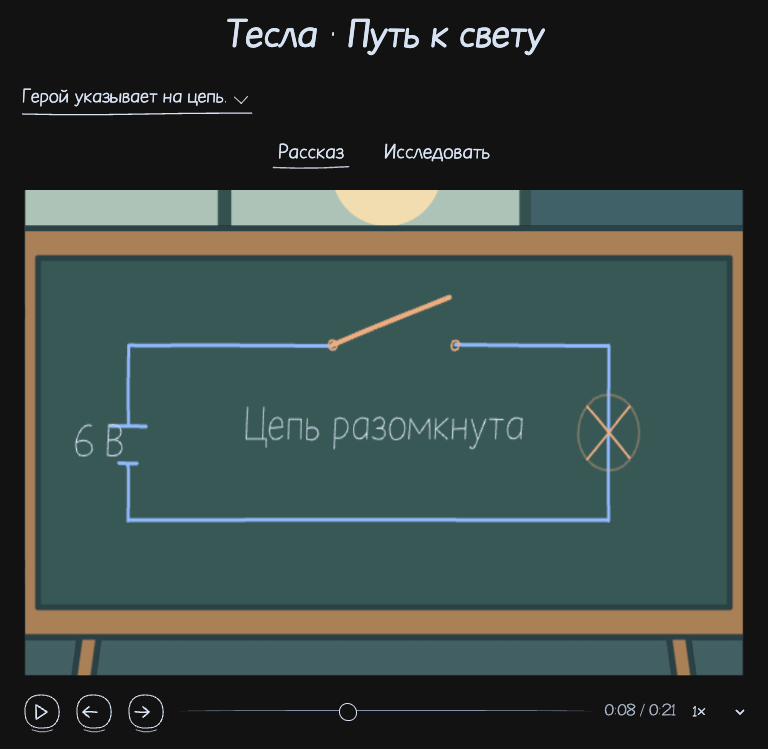
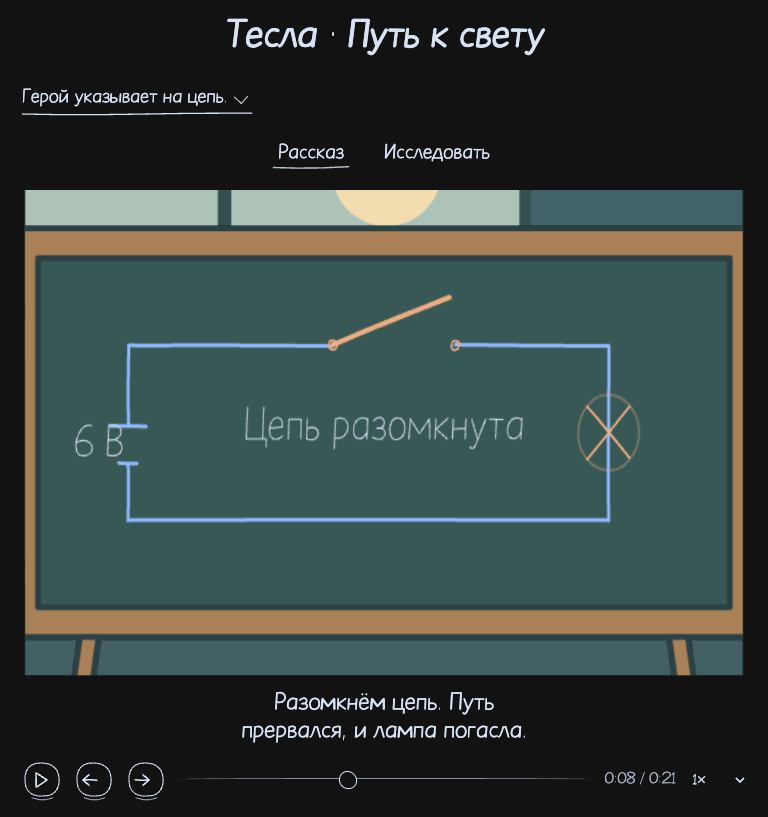
fix(scene): keep quiet story captions readable below the frame

diff --git a/tests/browser/quiet-caption.spec.ts b/tests/browser/quiet-caption.spec.ts
@@ -1,0 +1,61 @@
+import { expect, test } from '@playwright/test';
+
+test('a quiet character story keeps the complete caption readable through narrow seeking', async ({
+  page,
+}) => {
+  const errors: string[] = [];
+  page.on('pageerror', (error) => errors.push(error.message));
+  await page.setViewportSize({ width: 390, height: 844 });
+  await page.goto('/tesla-circuit/index.html');
+  await page.evaluate(() => (window as any).galleryReady);
+  const caption = page.locator('[data-caption]');
+  const seek = (id: string) =>
+    page.evaluate(
+      (id) =>
+        (document.querySelector('.ve-scene') as any).scene.control([
+          { type: 'cue', id, progress: 0.7 },
+        ]),
+      id,
+    );
+  const readable = async (text: string) => {
+    await expect(caption).toHaveCount(1);
+    await expect(caption).toBeVisible();
+    await expect(caption).toHaveAttribute('role', 'status');
+    await expect(caption).toHaveText(text);
+    const geometry = await caption.evaluate((element) => {
+      const box = element.getBoundingClientRect();
+      const frame = document.querySelector('[data-scene-frame]')!.getBoundingClientRect();
+      const glyph = document.createRange();
+      glyph.setStart(element.firstChild!, 0);
+      glyph.setEnd(element.firstChild!, 1);
+      return {
+        glyphHeight: glyph.getBoundingClientRect().height,
+        top: box.top,
+        frameBottom: frame.bottom,
+        left: box.left,
+        right: box.right,
+        width: innerWidth,
+        clipped: element.scrollWidth > element.clientWidth,
+      };
+    });
+    expect(geometry.glyphHeight).toBeGreaterThanOrEqual(18);
+    expect(geometry.top).toBeGreaterThanOrEqual(geometry.frameBottom);
+    expect(geometry.left).toBeGreaterThanOrEqual(0);
+    expect(geometry.right).toBeLessThanOrEqual(geometry.width);
+    expect(geometry.clipped).toBe(false);
+  };
+
+  const open = 'Разомкнём цепь. Путь прервался, и лампа погасла.';
+  const start =
+    'Проследим путь энергии. Источник создаёт напряжение, а замкнутая цепь позволяет току идти через лампу.';
+  await seek('workshop.explain');
+  await readable(open);
+  await seek('workshop.approach');
+  await readable(start);
+  await page.emulateMedia({ colorScheme: 'dark' });
+  await seek('workshop.explain');
+  await readable(open);
+  await page.setViewportSize({ width: 820, height: 960 });
+  await readable(open);
+  expect(errors).toEqual([]);
+});

diff --git a/src/scene.ts b/src/scene.ts
@@ -36,7 +36,12 @@ export interface SceneOptions {
   /** Hide the shell heading when the subject supplies its own title. */
   heading?: boolean;
   /** Optional visible word-aligned captions; omitted keeps the accessible chapter text. */
-  captions?: true | CaptionOptions;
+  captions?:
+    | true
+    | (CaptionOptions & {
+        /** Below a stage frame, text keeps its screen size. Whole-scene frames include it. */
+        placement?: 'overlay' | 'below';
+      });
   parameters?: (ControlParameter & { key: string })[];
   onInput?: (values: Record<string, ControlValue>) => void;
   onMode?: (mode: 'story' | 'explore') => void;
@@ -182,7 +187,13 @@ function mount(
     fields,
     completeFrame ? stage : (composition?.element ?? stage),
   );
-  if (captions && composition && !completeFrame) stage.append(caption);
+  if (
+    captions &&
+    composition &&
+    !completeFrame &&
+    (captions === true || captions.placement !== 'below')
+  )
+    stage.append(caption);
   else sheet.append(caption);
   sheet.append(controls, status);
   if (completeFrame) root.append(composition!.element);

diff --git a/examples/tesla-circuit/scene.js b/examples/tesla-circuit/scene.js
@@ -44,6 +44,7 @@ window.galleryReady = (async () => {
   return IllustratedStory.mount(globalThis.document.getElementById('story'), {
     document: alternate ? { ...document, title: 'Путь энергии: исследование цепи' } : document,
     audio,
+    captions: { placement: 'below' },
     parameters,
     chapters: {
       workshop: (chapter) =>

diff --git a/skills/visual-explainer/references/scene-authoring.md b/skills/visual-explainer/references/scene-authoring.md
@@ -141,7 +141,7 @@ gsap.to(pose, { x: target.x, y: target.y, duration: 0.35, overwrite: true, onUpd
 
 `frame.responsiveBelow: 904` позволяет тому же уроку перейти в обычный поток на узком экране; порог выбирают по читаемости уменьшенного текста. `SceneFrame` выставляет `data-frame-layout="responsive"` и сохраняет DOM, модель и часы; автор задаёт компактную предметную компоновку, как в `memory-register`. Выше порога возвращается исходный кадр, а короткое окно прокручивается по вертикали. Выпуск авторского кадра и видео всегда сохраняет фиксированные пропорции; HTML и PNG с текущими условиями сохраняют компоновку выбранного окна.
 
-`scope: 'stage'` (значение по умолчанию) фиксирует только предметную область, например экран продуктовой инструкции; управление остаётся снаружи. `captions: true` включает видимые субтитры из слов `timeline.json`; экспорт SRT/VTT использует ту же дорожку.
+`scope: 'stage'` (значение по умолчанию) фиксирует только предметную область, например экран продуктовой инструкции; управление остаётся снаружи. `captions: true` включает субтитры поверх кадра. Для тихого рассказа `captions: {placement: 'below'}` оставляет текст под предметным кадром в читаемом экранном размере, как в `tesla-circuit`. При `scope: 'scene'` текст входит в общую композицию. Подписи и экспорт SRT/VTT используют одну дорожку речи или тихого сценария.
 
 ```js
 import { storyActions } from '@visual-storytelling/core';
